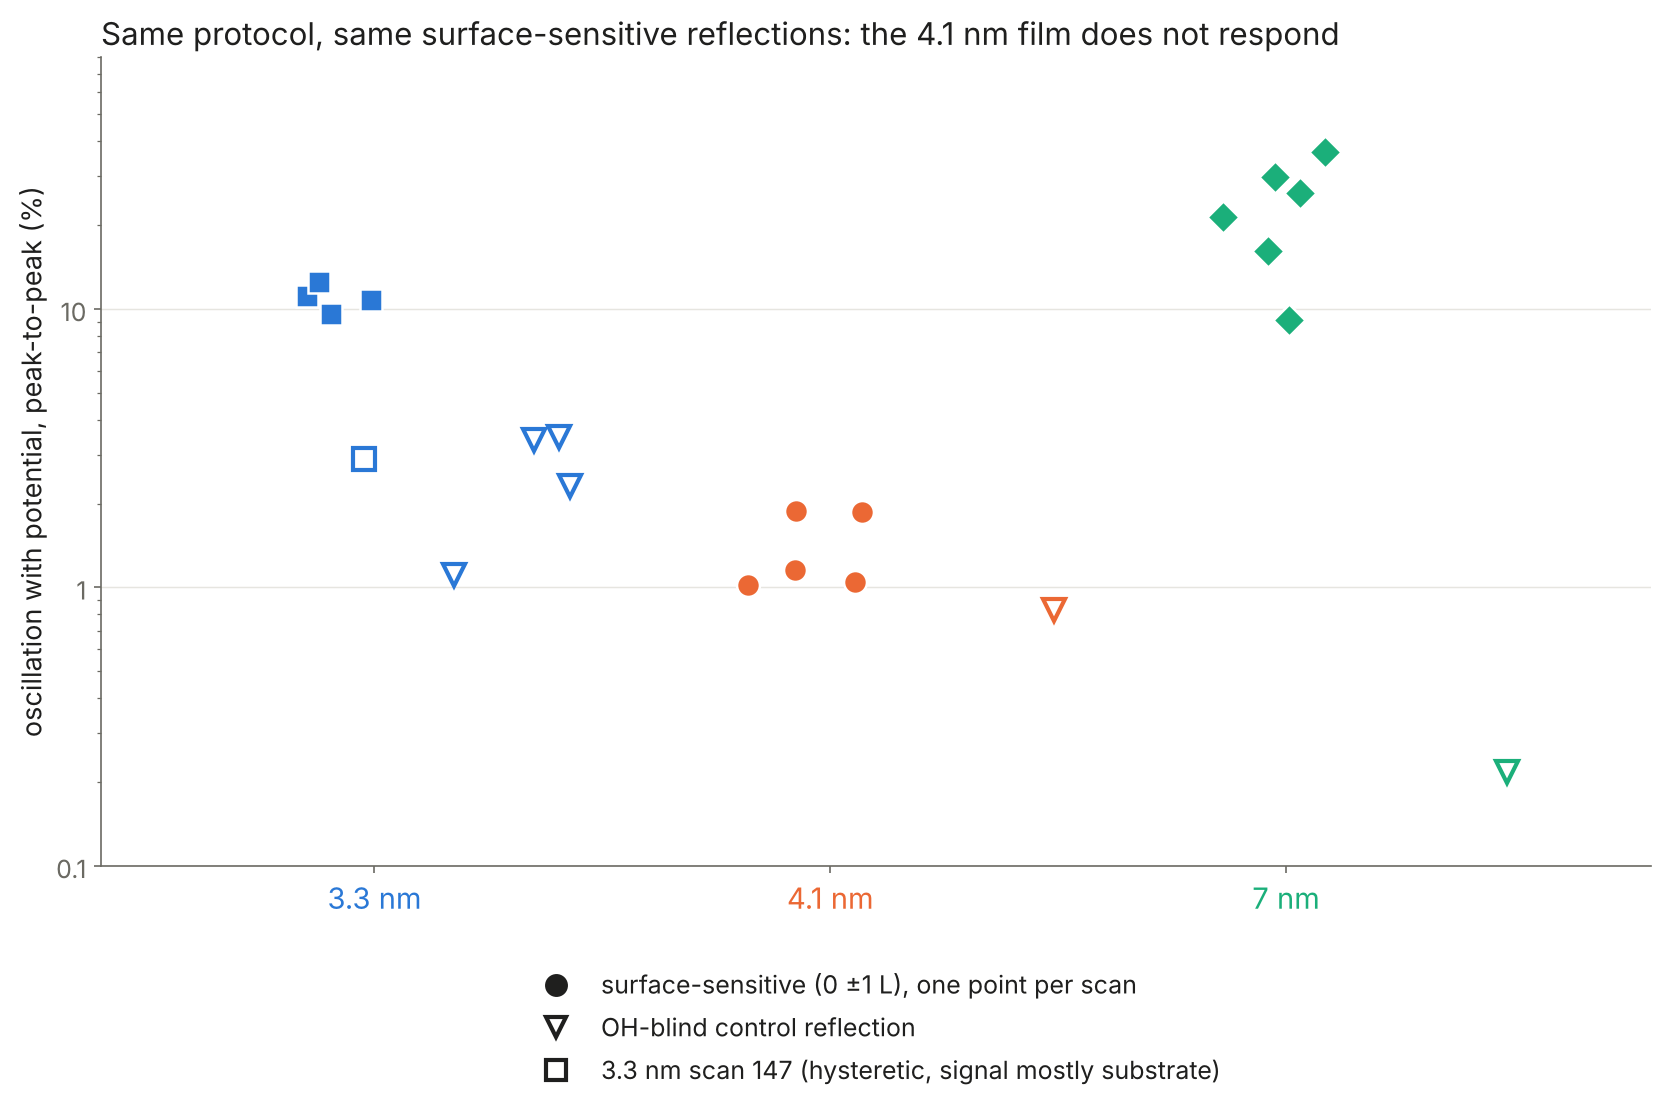
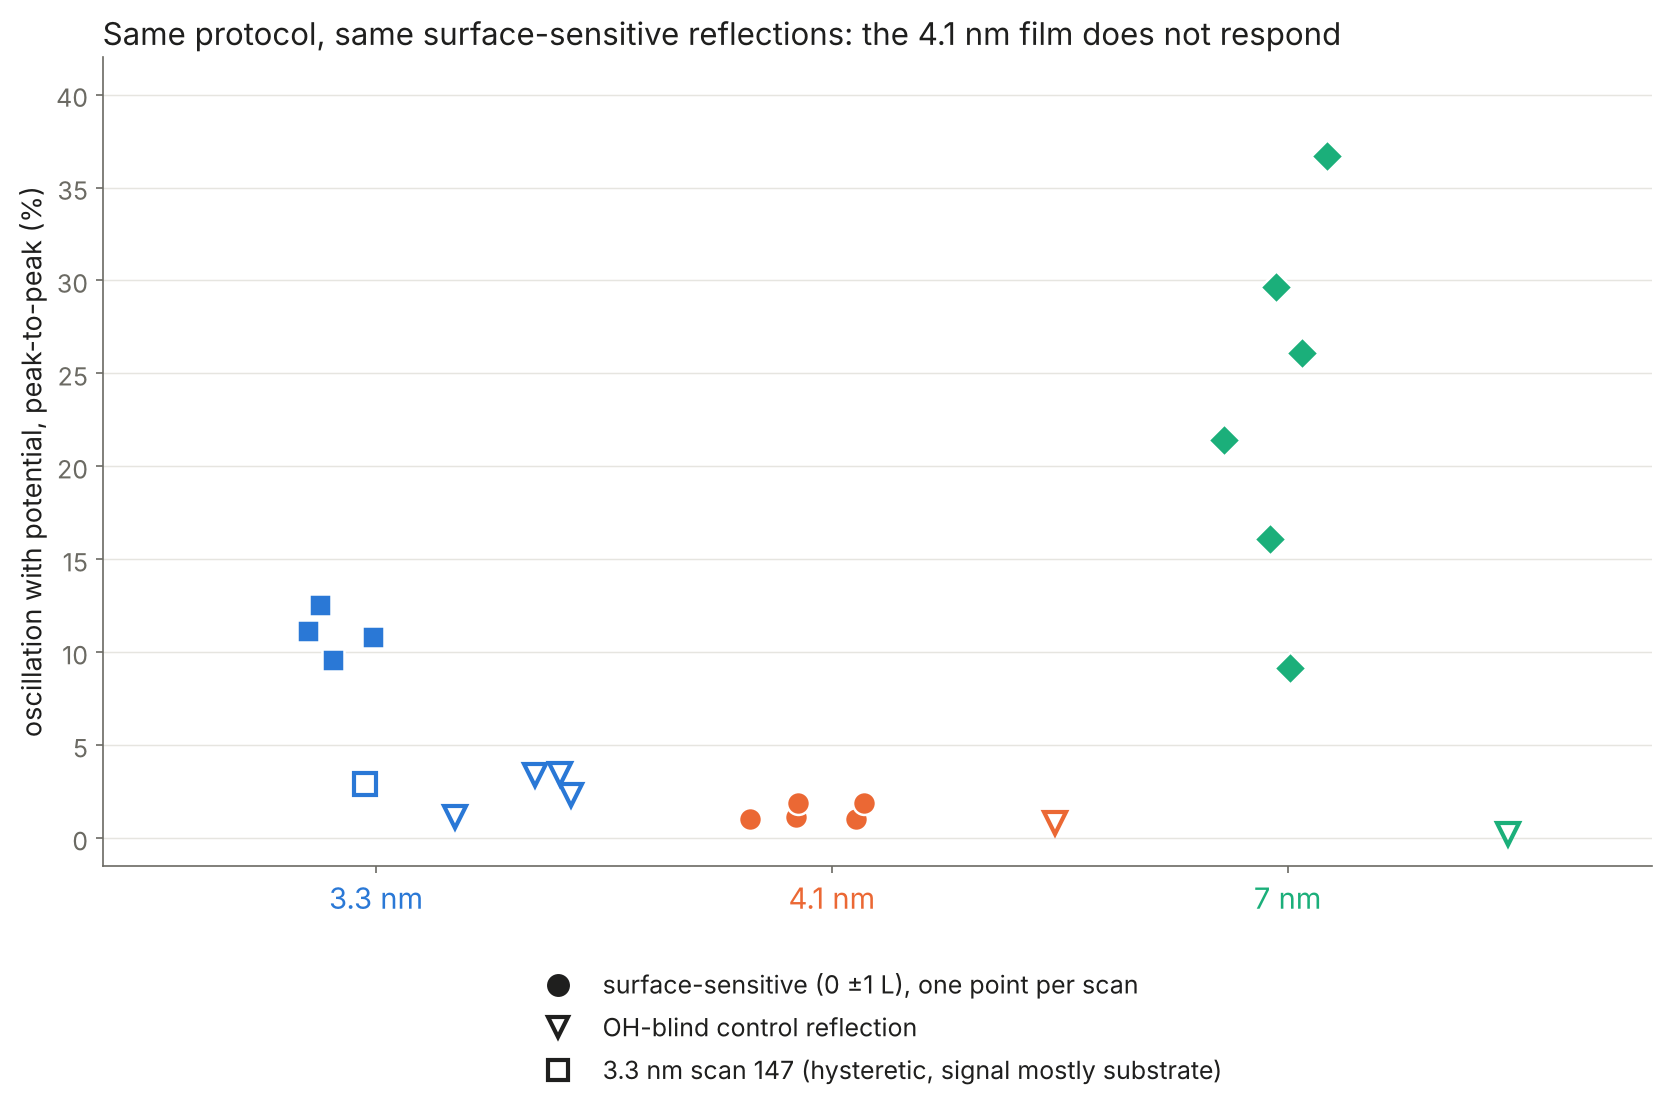
analysis/2026-11-06_stationary_cv: slide 2 on a linear y-axis
Claude-Session: https://claude.ai/code/session_01N5djLZqA28CJrUapxRBco7

diff --git a/analysis/2026-11-06_stationary_cv/make_slide_figures.py b/analysis/2026-11-06_stationary_cv/make_slide_figures.py
@@ -67,8 +67,7 @@ def slide02():
             ax.plot(x, y, MK[f], ms=11, color=COL[f], mfc="white", mew=2, zorder=3)
         else:
             ax.plot(x, y, MK[f], ms=11, color=COL[f], mec="white", mew=1.2, zorder=3)
-    ax.set_yscale("log"); ax.set_ylim(0.1, 80)
-    ax.yaxis.set_major_formatter(matplotlib.ticker.FuncFormatter(lambda v, _: f"{v:g}"))
+    ax.set_ylim(-1.5, 42)
     ax.set_xticks([0, 1, 2]); ax.set_xticklabels(["3.3 nm", "4.1 nm", "7 nm"], fontsize=14)
     for t, f in zip(ax.get_xticklabels(), ("3.3", "4.1", "7")):
         t.set_color(COL[f])
